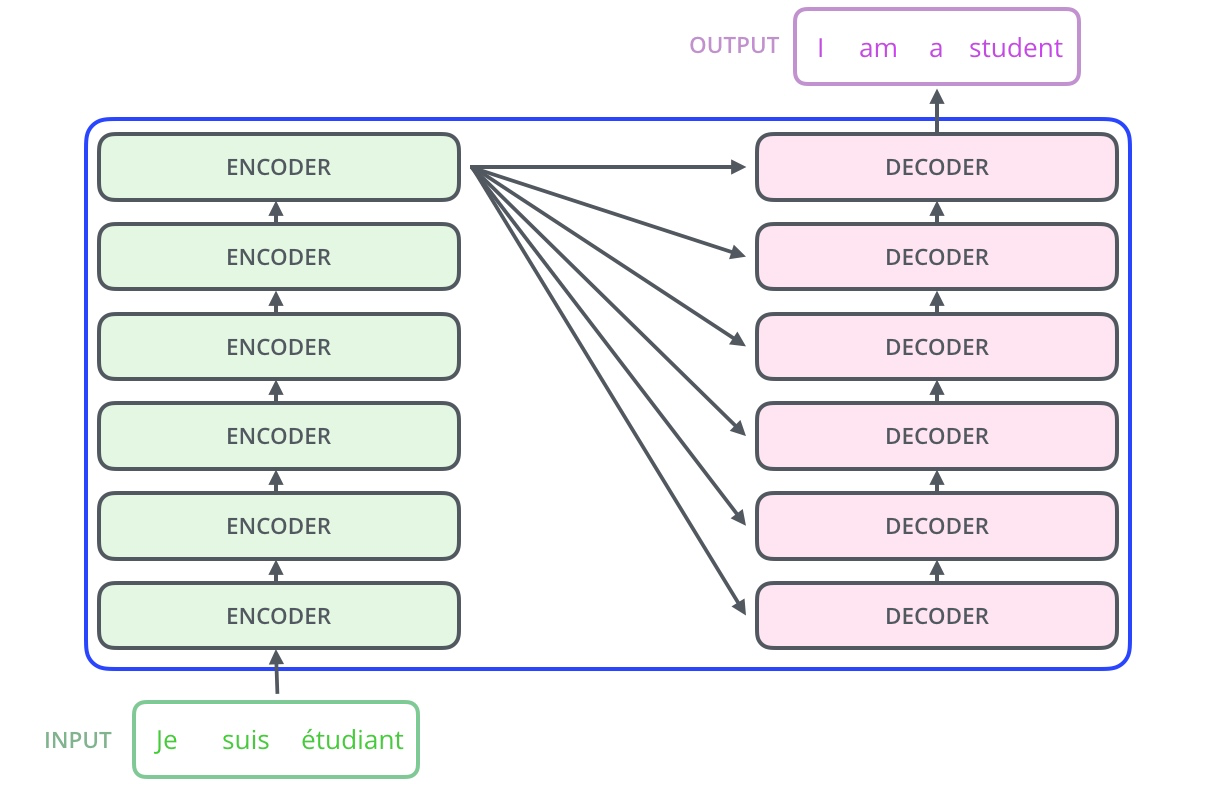
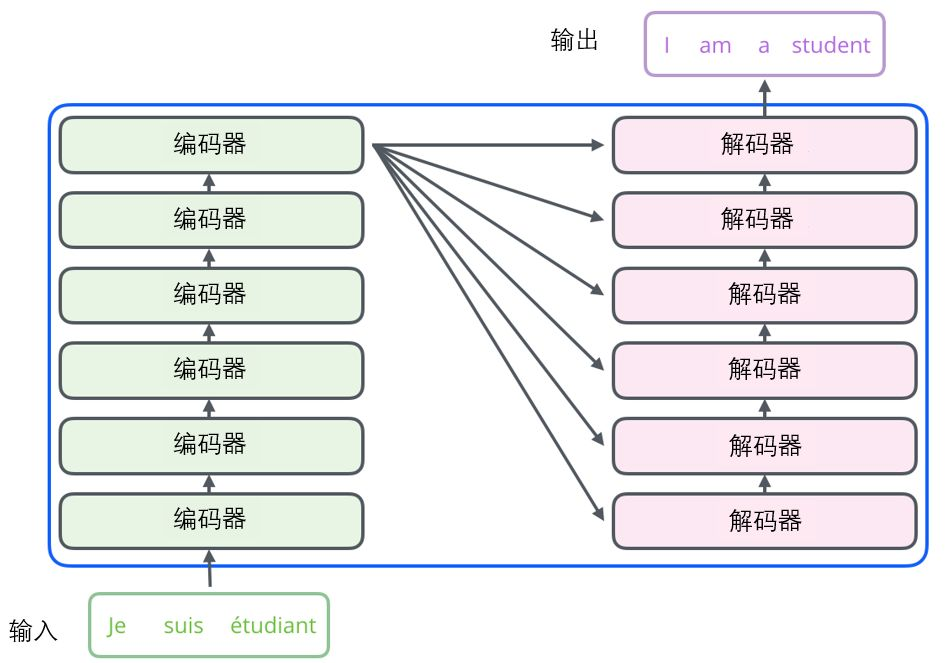
Site updated: 2020-05-29 00:26:45

Changed region(s): [[0.0, 0.0, 0.981, 0.9955]]

diff --git a/2020/05/25/Modeling contexts of use Contextual Representations and Pretraining/index.html b/2020/05/25/Modeling contexts of use Contextual Representations and Pretraining/index.html
@@ -16,8 +16,8 @@
 } </script><meta name="generator" content="Hexo 4.2.0"><link rel="stylesheet" href="\assets\css\APlayer.min.css" class="aplayer-style-marker">
 <script src="\assets\js\APlayer.min.js" class="aplayer-script-marker"></script>
 <script src="\assets\js\Meting.min.js" class="meting-script-marker"></script>
-</head><body><canvas class="fireworks"></canvas><i class="fa fa-arrow-right" id="toggle-sidebar" aria-hidden="true"></i><div id="sidebar" data-display="true"><div class="toggle-sidebar-info text-center"><span data-toggle="切换文章详情">切换站点概览</span><hr></div><div class="sidebar-toc"><div class="sidebar-toc__title">目录</div><div class="sidebar-toc__progress"><span class="progress-notice">你已经读了</span><span class="progress-num">0</span><span class="progress-percentage">%</span><div class="sidebar-toc__progress-bar"></div></div><div class="sidebar-toc__content"><ol class="toc"><li class="toc-item toc-level-2"><a class="toc-link" href="#前言"><span class="toc-number">1.</span> <span class="toc-text">前言</span></a></li><li class="toc-item toc-level-2"><a class="toc-link" href="#Representations-for-a-word"><span class="toc-number">2.</span> <span class="toc-text">Representations for a word</span></a></li><li class="toc-item toc-level-2"><a class="toc-link" href="#ELMo"><span class="toc-number">3.</span> <span class="toc-text">ELMo</span></a><ol class="toc-child"><li class="toc-item toc-level-3"><a class="toc-link" href="#ELMo的特点"><span class="toc-number">3.1.</span> <span class="toc-text">ELMo的特点</span></a></li><li class="toc-item toc-level-3"><a class="toc-link" href="#ELMo的原理"><span class="toc-number">3.2.</span> <span class="toc-text">ELMo的原理</span></a></li><li class="toc-item toc-level-3"><a class="toc-link" href="#ELMo的使用"><span class="toc-number">3.3.</span> <span class="toc-text">ELMo的使用</span></a></li></ol></li><li class="toc-item toc-level-2"><a class="toc-link" href="#ULMfit"><span class="toc-number">4.</span> <span class="toc-text">ULMfit</span></a></li><li class="toc-item toc-level-2"><a class="toc-link" href="#Transformer-models"><span class="toc-number">5.</span> <span class="toc-text">Transformer models</span></a><ol class="toc-child"><li class="toc-item toc-level-3"><a class="toc-link" href="#Transformer总体结构"><span class="toc-number">5.1.</span> <span class="toc-text">Transformer总体结构</span></a></li><li class="toc-item toc-level-3"><a class="toc-link" href="#Self-Attention"><span class="toc-number">5.2.</span> <span class="toc-text">Self-Attention</span></a></li><li class="toc-item toc-level-3"><a class="toc-link" href="#Multi-Headed-Attention"><span class="toc-number">5.3.</span> <span class="toc-text">Multi-Headed Attention</span></a></li><li class="toc-item toc-level-3"><a class="toc-link" href="#Positional-Encoding"><span class="toc-number">5.4.</span> <span class="toc-text">Positional Encoding</span></a></li><li class="toc-item toc-level-3"><a class="toc-link" href="#Layer-normalization"><span class="toc-number">5.5.</span> <span class="toc-text">Layer normalization</span></a></li><li class="toc-item toc-level-3"><a class="toc-link" href="#Decoder层"><span class="toc-number">5.6.</span> <span class="toc-text">Decoder层</span></a></li><li class="toc-item toc-level-3"><a class="toc-link" href="#输出层"><span class="toc-number">5.7.</span> <span class="toc-text">输出层</span></a></li></ol></li><li class="toc-item toc-level-2"><a class="toc-link" href="#BERT-Devlin-Chang-Lee-Toutanova-2018"><span class="toc-number">6.</span> <span class="toc-text">BERT: Devlin, Chang, Lee, Toutanova(2018)</span></a></li><li class="toc-item toc-level-2"><a class="toc-link" href="#Post-BERT-Pre-training-Advancements"><span class="toc-number">7.</span> <span class="toc-text">Post-BERT Pre-training Advancements</span></a></li><li class="toc-item toc-level-2"><a class="toc-link" href="#Reference"><span class="toc-number">8.</span> <span class="toc-text">Reference</span></a></li></ol></div></div><div class="author-info hide"><div class="author-info__avatar text-center"><img src="/miao.jpg"></div><div class="author-info__name text-center">Stanleylsx</div><div class="author-info__description text-center">达拉崩巴斑得贝迪卜多比鲁翁</div><div class="follow-button"><a href="https://github.com/stanleylsx" target="_blank" rel="noopener">Follow Me</a></div><hr><div class="author-info-articles"><a class="author-info-articles__archives article-meta" href="/archives"><span class="pull-left">文章</span><span class="pull-right">15</span></a><a class="author-info-articles__tags article-meta" href="/tags"><span class="pull-left">标签</span><span class="pull-right">25</span></a><a class="author-info-articles__categories article-meta" href="/categories"><span class="pull-left">分类</span><span class="pull-right">3</span></a></div><hr><div class="author-info-links"><div class="author-info-links__title text-center">Friends</div><a class="author-info-links__name text-center" href="https://ty-chen.github.io/" target="_blank" rel="noopener">Ty Chen</a></div></div></div><div id="content-outer"><div id="top-container" style="background-image: url(http://ww1.sinaimg.cn/large/0067fiZ7ly1g1cuf0dr09j31hc0u049j.jpg)"><div id="page-header"><span class="pull-left"> <a id="site-name" href="/">LSXのBlog</a></span><i class="fa fa-bars toggle-menu pull-right" aria-hidden="true"></i><span class="pull-right menus">   <a class="site-page" href="/">主页</a><a class="site-page" href="/archives">归档</a><a class="site-page" href="/tags">标签</a><a class="site-page" href="/categories">分类</a><a class="site-page" href="/playlist">歌单</a><a class="site-page" href="/gallery">相册</a></span><span class="pull-right"><a class="site-page social-icon search"><i class="fa fa-search"></i><span> 搜索</span></a></span></div><div id="post-info"><div id="post-title">12 Modeling contexts of use Contextual Representations and Pretraining</div><div id="post-meta"><time class="post-meta__date"><i class="fa fa-calendar" aria-hidden="true"></i> 2020-05-25</time><span class="post-meta__separator">|</span><i class="fa fa-inbox post-meta__icon" aria-hidden="true"></i><a class="post-meta__categories" href="/categories/cs224n%E5%AD%A6%E4%B9%A0/">cs224n学习</a><div class="post-meta-wordcount"><span>字数总计: </span><span class="word-count">1.9k</span><span class="post-meta__separator">|</span><span>阅读时长: 6 分钟</span></div></div></div></div><div class="layout" id="content-inner"><article id="post"><div class="article-container" id="post-content">
-    <div id="aplayer-VVVHyvTu" class="aplayer aplayer-tag-marker meting-tag-marker" data-id="202373" data-server="netease" data-type="song" data-mode="circulation" data-autoplay="false" data-mutex="true" data-listmaxheight="340px" data-preload="auto" data-theme="#555" data-volume="0.5"></div>
+</head><body><canvas class="fireworks"></canvas><i class="fa fa-arrow-right" id="toggle-sidebar" aria-hidden="true"></i><div id="sidebar" data-display="true"><div class="toggle-sidebar-info text-center"><span data-toggle="切换文章详情">切换站点概览</span><hr></div><div class="sidebar-toc"><div class="sidebar-toc__title">目录</div><div class="sidebar-toc__progress"><span class="progress-notice">你已经读了</span><span class="progress-num">0</span><span class="progress-percentage">%</span><div class="sidebar-toc__progress-bar"></div></div><div class="sidebar-toc__content"><ol class="toc"><li class="toc-item toc-level-2"><a class="toc-link" href="#前言"><span class="toc-number">1.</span> <span class="toc-text">前言</span></a></li><li class="toc-item toc-level-2"><a class="toc-link" href="#Representations-for-a-word"><span class="toc-number">2.</span> <span class="toc-text">Representations for a word</span></a></li><li class="toc-item toc-level-2"><a class="toc-link" href="#ELMo"><span class="toc-number">3.</span> <span class="toc-text">ELMo</span></a><ol class="toc-child"><li class="toc-item toc-level-3"><a class="toc-link" href="#ELMo的特点"><span class="toc-number">3.1.</span> <span class="toc-text">ELMo的特点</span></a></li><li class="toc-item toc-level-3"><a class="toc-link" href="#ELMo的原理"><span class="toc-number">3.2.</span> <span class="toc-text">ELMo的原理</span></a></li><li class="toc-item toc-level-3"><a class="toc-link" href="#ELMo的使用"><span class="toc-number">3.3.</span> <span class="toc-text">ELMo的使用</span></a></li></ol></li><li class="toc-item toc-level-2"><a class="toc-link" href="#ULMfit"><span class="toc-number">4.</span> <span class="toc-text">ULMfit</span></a></li><li class="toc-item toc-level-2"><a class="toc-link" href="#Transformer-models"><span class="toc-number">5.</span> <span class="toc-text">Transformer models</span></a><ol class="toc-child"><li class="toc-item toc-level-3"><a class="toc-link" href="#Transformer总体结构"><span class="toc-number">5.1.</span> <span class="toc-text">Transformer总体结构</span></a></li><li class="toc-item toc-level-3"><a class="toc-link" href="#Self-Attention"><span class="toc-number">5.2.</span> <span class="toc-text">Self-Attention</span></a></li><li class="toc-item toc-level-3"><a class="toc-link" href="#Multi-Headed-Attention"><span class="toc-number">5.3.</span> <span class="toc-text">Multi-Headed Attention</span></a></li><li class="toc-item toc-level-3"><a class="toc-link" href="#Positional-Encoding"><span class="toc-number">5.4.</span> <span class="toc-text">Positional Encoding</span></a></li><li class="toc-item toc-level-3"><a class="toc-link" href="#Layer-normalization"><span class="toc-number">5.5.</span> <span class="toc-text">Layer normalization</span></a></li><li class="toc-item toc-level-3"><a class="toc-link" href="#Decoder层"><span class="toc-number">5.6.</span> <span class="toc-text">Decoder层</span></a></li><li class="toc-item toc-level-3"><a class="toc-link" href="#输出层"><span class="toc-number">5.7.</span> <span class="toc-text">输出层</span></a></li></ol></li><li class="toc-item toc-level-2"><a class="toc-link" href="#BERT-Devlin-Chang-Lee-Toutanova-2018"><span class="toc-number">6.</span> <span class="toc-text">BERT: Devlin, Chang, Lee, Toutanova(2018)</span></a></li><li class="toc-item toc-level-2"><a class="toc-link" href="#Post-BERT-Pre-training-Advancements"><span class="toc-number">7.</span> <span class="toc-text">Post-BERT Pre-training Advancements</span></a></li><li class="toc-item toc-level-2"><a class="toc-link" href="#Reference"><span class="toc-number">8.</span> <span class="toc-text">Reference</span></a></li></ol></div></div><div class="author-info hide"><div class="author-info__avatar text-center"><img src="/miao.jpg"></div><div class="author-info__name text-center">Stanleylsx</div><div class="author-info__description text-center">达拉崩巴斑得贝迪卜多比鲁翁</div><div class="follow-button"><a href="https://github.com/stanleylsx" target="_blank" rel="noopener">Follow Me</a></div><hr><div class="author-info-articles"><a class="author-info-articles__archives article-meta" href="/archives"><span class="pull-left">文章</span><span class="pull-right">15</span></a><a class="author-info-articles__tags article-meta" href="/tags"><span class="pull-left">标签</span><span class="pull-right">25</span></a><a class="author-info-articles__categories article-meta" href="/categories"><span class="pull-left">分类</span><span class="pull-right">3</span></a></div><hr><div class="author-info-links"><div class="author-info-links__title text-center">Friends</div><a class="author-info-links__name text-center" href="https://ty-chen.github.io/" target="_blank" rel="noopener">Ty Chen</a></div></div></div><div id="content-outer"><div id="top-container" style="background-image: url(http://ww1.sinaimg.cn/large/0067fiZ7ly1g1cuf0dr09j31hc0u049j.jpg)"><div id="page-header"><span class="pull-left"> <a id="site-name" href="/">LSXのBlog</a></span><i class="fa fa-bars toggle-menu pull-right" aria-hidden="true"></i><span class="pull-right menus">   <a class="site-page" href="/">主页</a><a class="site-page" href="/archives">归档</a><a class="site-page" href="/tags">标签</a><a class="site-page" href="/categories">分类</a><a class="site-page" href="/playlist">歌单</a><a class="site-page" href="/gallery">相册</a></span><span class="pull-right"><a class="site-page social-icon search"><i class="fa fa-search"></i><span> 搜索</span></a></span></div><div id="post-info"><div id="post-title">12 Modeling contexts of use Contextual Representations and Pretraining</div><div id="post-meta"><time class="post-meta__date"><i class="fa fa-calendar" aria-hidden="true"></i> 2020-05-25</time><span class="post-meta__separator">|</span><i class="fa fa-inbox post-meta__icon" aria-hidden="true"></i><a class="post-meta__categories" href="/categories/cs224n%E5%AD%A6%E4%B9%A0/">cs224n学习</a><div class="post-meta-wordcount"><span>字数总计: </span><span class="word-count">2.9k</span><span class="post-meta__separator">|</span><span>阅读时长: 9 分钟</span></div></div></div></div><div class="layout" id="content-inner"><article id="post"><div class="article-container" id="post-content">
+    <div id="aplayer-naxkWkJv" class="aplayer aplayer-tag-marker meting-tag-marker" data-id="202373" data-server="netease" data-type="song" data-mode="circulation" data-autoplay="false" data-mutex="true" data-listmaxheight="340px" data-preload="auto" data-theme="#555" data-volume="0.5"></div>
 <hr>
 <h2 id="前言"><a href="#前言" class="headerlink" title="前言"></a>前言</h2><p>这篇文章是两篇视频学习的笔记整合，分别是是<a href="https://stanford-pilot.hosted.panopto.com/Panopto/Pages/Auth/Login.aspx?Auth=Viewer&amp;ReturnUrl=%2fPanopto%2fPages%2fViewer.aspx%3fid%3d5a2ffb20-113f-4d8d-bb77-ab25012bdc20" target="_blank" rel="noopener">Contextual Word Representations: BERT</a>和<a href="https://stanford-pilot.hosted.panopto.com/Panopto/Pages/Auth/Login.aspx?Auth=Viewer&amp;ReturnUrl=%2fPanopto%2fPages%2fViewer.aspx%3fid%3d7f471f99-ebf5-4477-a700-ab25012bdc4a" target="_blank" rel="noopener">Modeling contexts of use: Contextual Representations and Pretraining. ELMo and BERT.</a>。这两个视频大致上分为四个部分做讲解，分别是交代背景(Representations for a word)、pre-Bert时代的预训练模型(ELMo、ULMfit)、Bert基本原理(Transformer models、BERT)以及post-Bert时代的各个模型的使用和对比。  </p>
 <hr>
@@ -77,7 +77,34 @@ ELMo_k^{task}=E(R_k;\Theta^{task})=\gamma^{task}\sum_{j=0}^Ls_j^{task}h_{k,j}^{L
 <h3 id="Transformer总体结构"><a href="#Transformer总体结构" class="headerlink" title="Transformer总体结构"></a>Transformer总体结构</h3><p>和Attention模型一样，Transformer模型中也采用了 encoer-decoder 架构。但其结构相比于Attention更加复杂，论文中encoder层由6个encoder堆叠在一起，decoder层也一样。</p>
 <p><img src="/2020/05/25/Modeling%20contexts%20of%20use%20Contextual%20Representations%20and%20Pretraining/image11.png" alt></p>
 <p>每一个encoder和decoder的内部简版结构如下图:</p>
-<h3 id="Self-Attention"><a href="#Self-Attention" class="headerlink" title="Self-Attention"></a>Self-Attention</h3><h3 id="Multi-Headed-Attention"><a href="#Multi-Headed-Attention" class="headerlink" title="Multi-Headed Attention"></a>Multi-Headed Attention</h3><h3 id="Positional-Encoding"><a href="#Positional-Encoding" class="headerlink" title="Positional Encoding"></a>Positional Encoding</h3><h3 id="Layer-normalization"><a href="#Layer-normalization" class="headerlink" title="Layer normalization"></a>Layer normalization</h3><h3 id="Decoder层"><a href="#Decoder层" class="headerlink" title="Decoder层"></a>Decoder层</h3><h3 id="输出层"><a href="#输出层" class="headerlink" title="输出层"></a>输出层</h3><hr>
+<p><img src="/2020/05/25/Modeling%20contexts%20of%20use%20Contextual%20Representations%20and%20Pretraining/image12.png" alt></p>
+<p>对于encoder，包含两层，一个self-attention层和一个前馈神经网络，self-attention能帮助当前节点不仅仅只关注当前的词，从而能获取到上下文的语义。decoder也包含encoder提到的两层网络，但是在这两层中间还有一层attention层，帮助当前节点获取到当前需要关注的重点内容。  </p>
+<p>现在我们知道了模型的主要组件，接下来我们看下模型的内部细节。首先，模型需要对输入的数据进行一个embedding操作，（也可以理解为类似w2c的操作），enmbedding结束之后，输入到encoder层，self-attention处理完数据后把数据送给前馈神经网络，前馈神经网络的计算可以并行，得到的输出会输入到下一个encoder。</p>
+<p><img src="/2020/05/25/Modeling%20contexts%20of%20use%20Contextual%20Representations%20and%20Pretraining/image13.png" alt></p>
+<h3 id="Self-Attention"><a href="#Self-Attention" class="headerlink" title="Self-Attention"></a>Self-Attention</h3><p>接下来我们详细看一下self-attention，其思想和attention类似，但是self-attention是Transformer用来将其他相关单词的“理解”转换成我们正常理解的单词的一种思路，我们看个例子：<br>The animal didn’t cross the street because it was too tired<br>这里的it到底代表的是animal还是street呢，对于我们来说能很简单的判断出来，但是对于机器来说，是很难判断的，self-attention就能够让机器把it和animal联系起来。</p>
+<p><img src="/2020/05/25/Modeling%20contexts%20of%20use%20Contextual%20Representations%20and%20Pretraining/image14.png" alt></p>
+<p>接下来我们看下详细的处理过程：</p>
+<ol>
+<li><p>首先，self-attention会计算出三个新的向量，在论文中，向量的维度是512维，我们把这三个向量分别称为Query、Key、Value，这三个向量是用embedding向量与一个矩阵相乘得到的结果，这个矩阵是随机初始化的，维度为(64，512)注意第二个维度需要和embedding的维度一样，其值在BP的过程中会一直进行更新，得到的这三个向量的维度是64低于embedding维度的。  </p>
+<p> <img src="/2020/05/25/Modeling%20contexts%20of%20use%20Contextual%20Representations%20and%20Pretraining/image15.png" alt>  </p>
+<p> 那么Query、Key、Value这三个向量又是什么呢？这三个向量对于attention来说很重要，当你理解了下文后，你将会明白这三个向量扮演者什么的角色。</p>
+</li>
+<li><p>计算self-attention的分数值，该分数值决定了当我们在某个位置encode一个词时，对输入句子的其他部分的关注程度。这个分数值的计算方法是Query与Key做点乘，以下图为例，首先我们需要针对Thinking这个词，计算出其他词对于该词的一个分数值，首先是针对于自己本身即q1·k1，然后是针对于第二个词即q1·k2</p>
+<p> <img src="/2020/05/25/Modeling%20contexts%20of%20use%20Contextual%20Representations%20and%20Pretraining/image16.png" alt>  </p>
+</li>
+<li><p>接下来，把点成的结果除以一个常数，这里我们除以8，这个值一般是采用上文提到的矩阵的第一个维度的开方即64的开方8，当然也可以选择其他的值，然后把得到的结果做一个softmax的计算。得到的结果即是每个词对于当前位置的词的相关性大小，当然，当前位置的词相关性肯定会会很大</p>
+<p> <img src="/2020/05/25/Modeling%20contexts%20of%20use%20Contextual%20Representations%20and%20Pretraining/image17.png" alt> </p>
+</li>
+<li><p>下一步就是把Value和softmax得到的值进行相乘，并相加，得到的结果即是self-attetion在当前节点的值。</p>
+<p> <img src="/2020/05/25/Modeling%20contexts%20of%20use%20Contextual%20Representations%20and%20Pretraining/image18.png" alt> </p>
+</li>
+</ol>
+<p>在实际的应用场景，为了提高计算速度，我们采用的是矩阵的方式，直接计算出Query, Key, Value的矩阵，然后把embedding的值与三个矩阵直接相乘，把得到的新矩阵Q与K相乘，乘以一个常数，做softmax操作，最后乘上V矩阵</p>
+<p><img src="/2020/05/25/Modeling%20contexts%20of%20use%20Contextual%20Representations%20and%20Pretraining/image19.png" alt> </p>
+<p><img src="/2020/05/25/Modeling%20contexts%20of%20use%20Contextual%20Representations%20and%20Pretraining/image20.png" alt> </p>
+<p>这种通过query和key的相似性程度来确定value的权重分布的方法被称为scaled dot-product attention。其实scaled dot-Product attention就是我们常用的使用点积进行相似度计算的attention，只是多除了一个(为K的维度)起到调节作用，使得内积不至于太大。</p>
+<p><img src="/2020/05/25/Modeling%20contexts%20of%20use%20Contextual%20Representations%20and%20Pretraining/image21.png" alt> </p>
+<h3 id="Multi-Headed-Attention"><a href="#Multi-Headed-Attention" class="headerlink" title="Multi-Headed Attention"></a>Multi-Headed Attention</h3><h3 id="Positional-Encoding"><a href="#Positional-Encoding" class="headerlink" title="Positional Encoding"></a>Positional Encoding</h3><h3 id="Layer-normalization"><a href="#Layer-normalization" class="headerlink" title="Layer normalization"></a>Layer normalization</h3><h3 id="Decoder层"><a href="#Decoder层" class="headerlink" title="Decoder层"></a>Decoder层</h3><h3 id="输出层"><a href="#输出层" class="headerlink" title="输出层"></a>输出层</h3><hr>
 <h2 id="BERT-Devlin-Chang-Lee-Toutanova-2018"><a href="#BERT-Devlin-Chang-Lee-Toutanova-2018" class="headerlink" title="BERT: Devlin, Chang, Lee, Toutanova(2018)"></a>BERT: Devlin, Chang, Lee, Toutanova(2018)</h2><hr>
 <h2 id="Post-BERT-Pre-training-Advancements"><a href="#Post-BERT-Pre-training-Advancements" class="headerlink" title="Post-BERT Pre-training Advancements"></a>Post-BERT Pre-training Advancements</h2><hr>
 <h2 id="Reference"><a href="#Reference" class="headerlink" title="Reference"></a>Reference</h2><ul>
